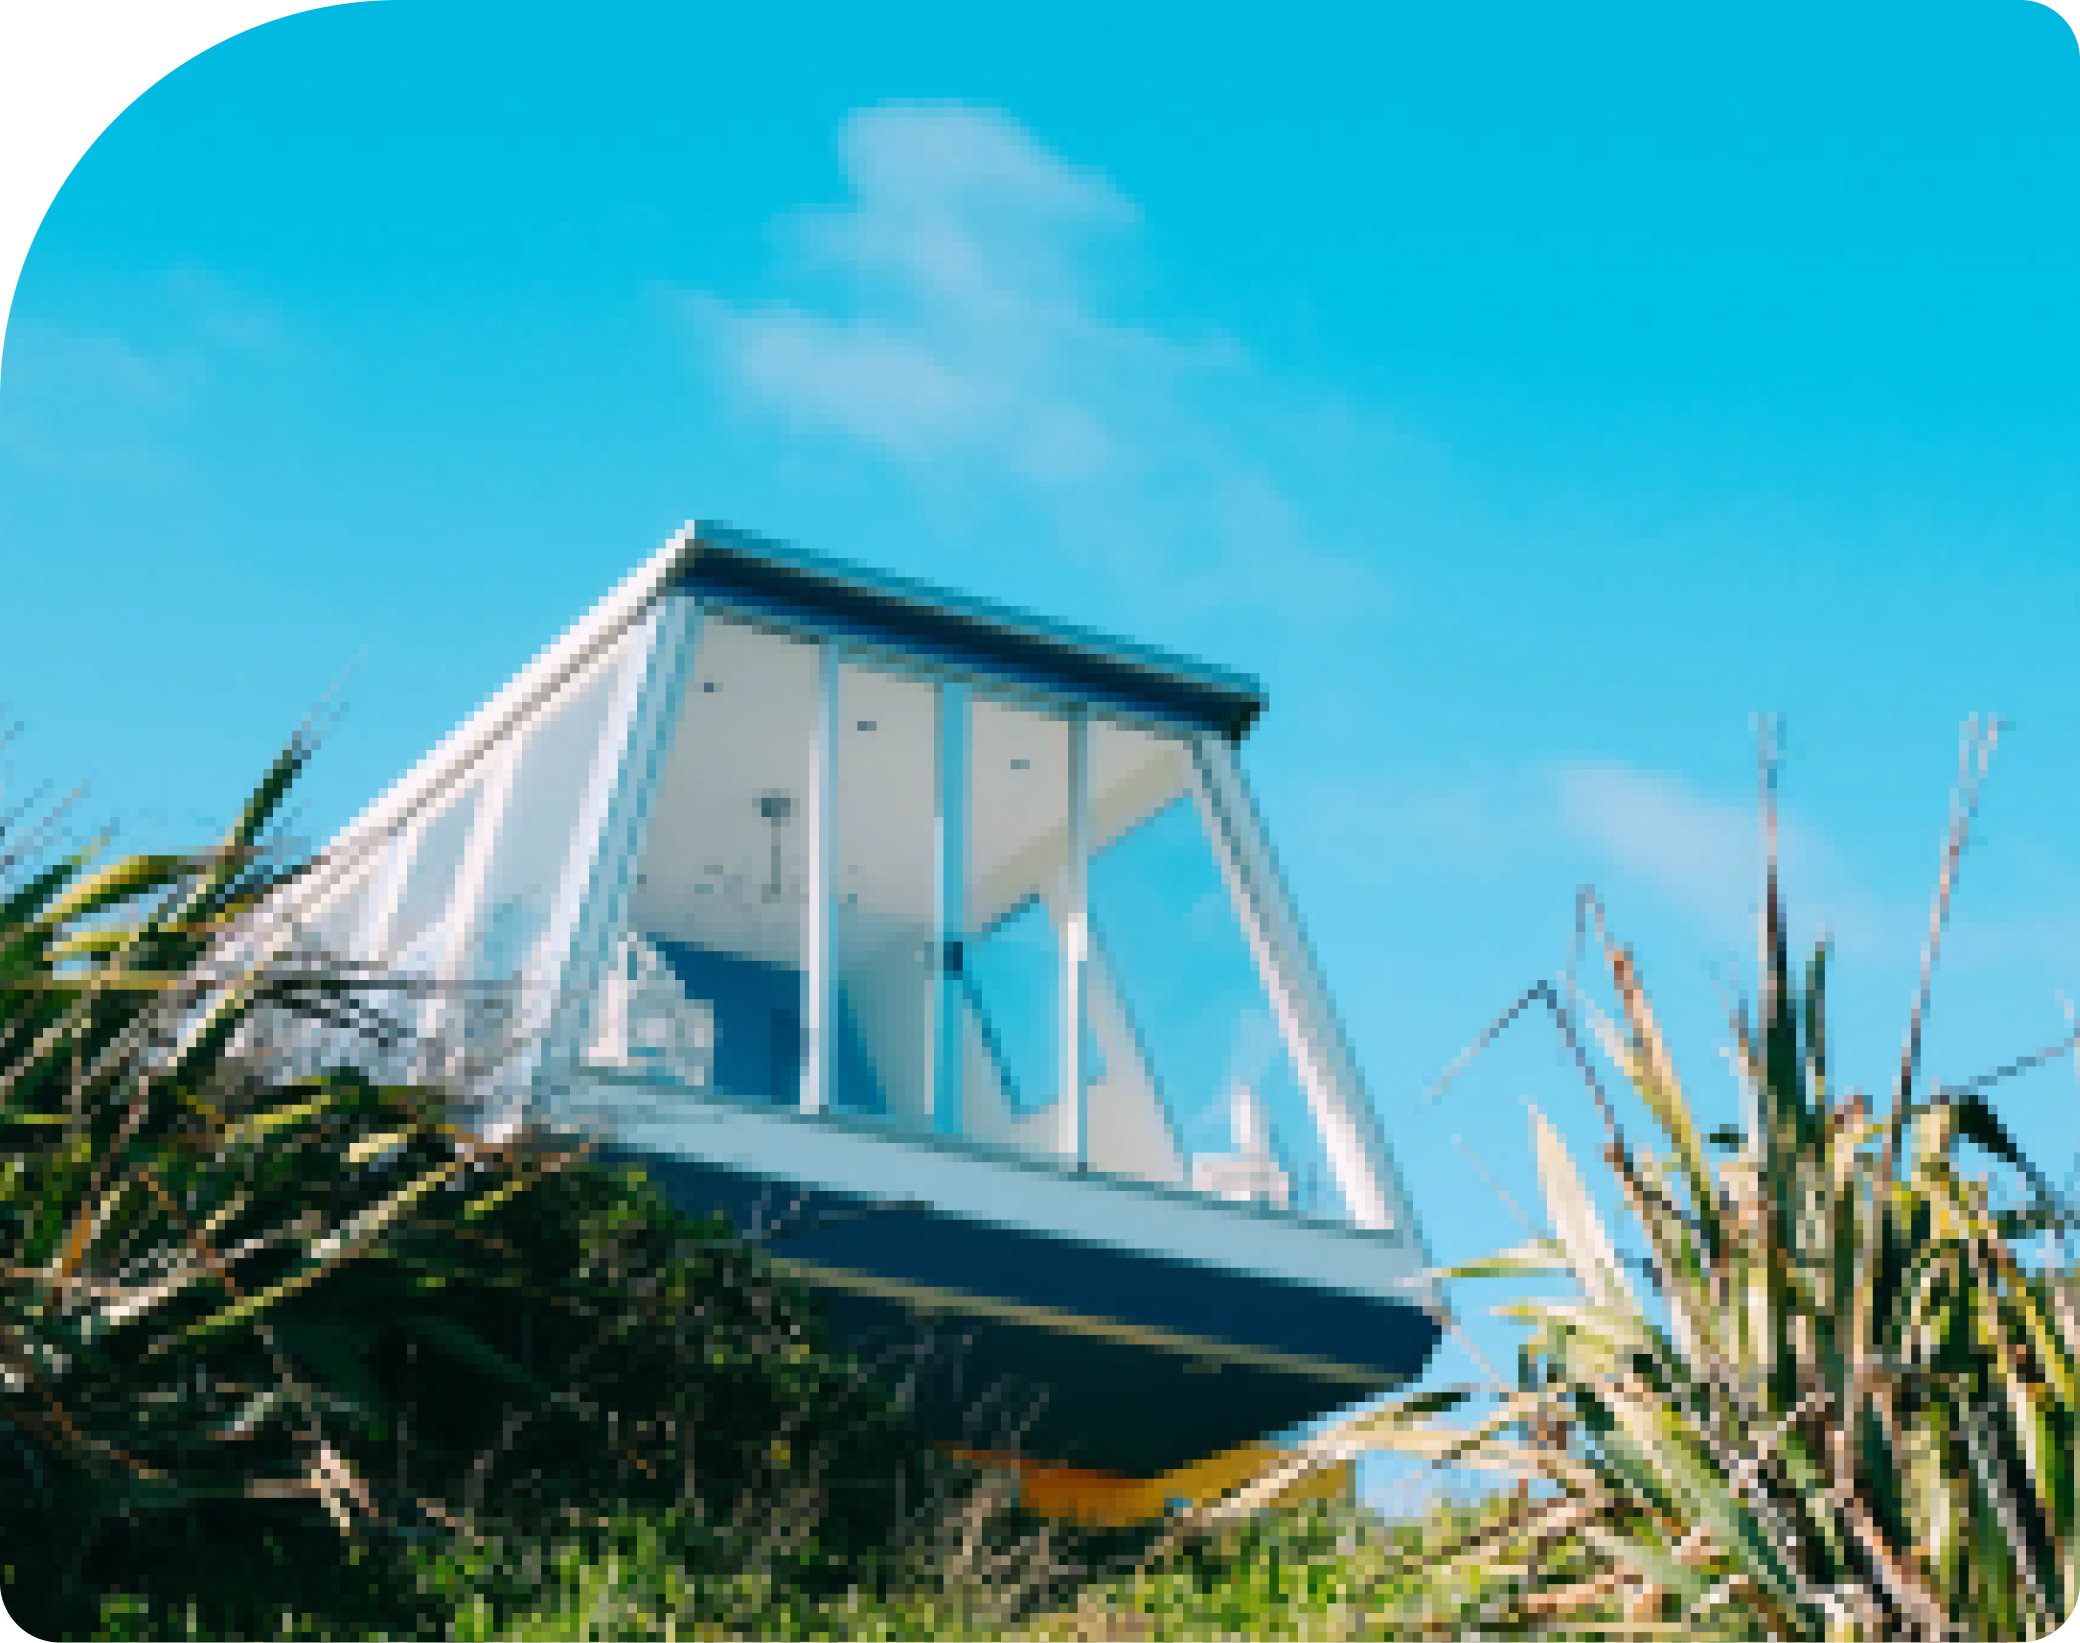
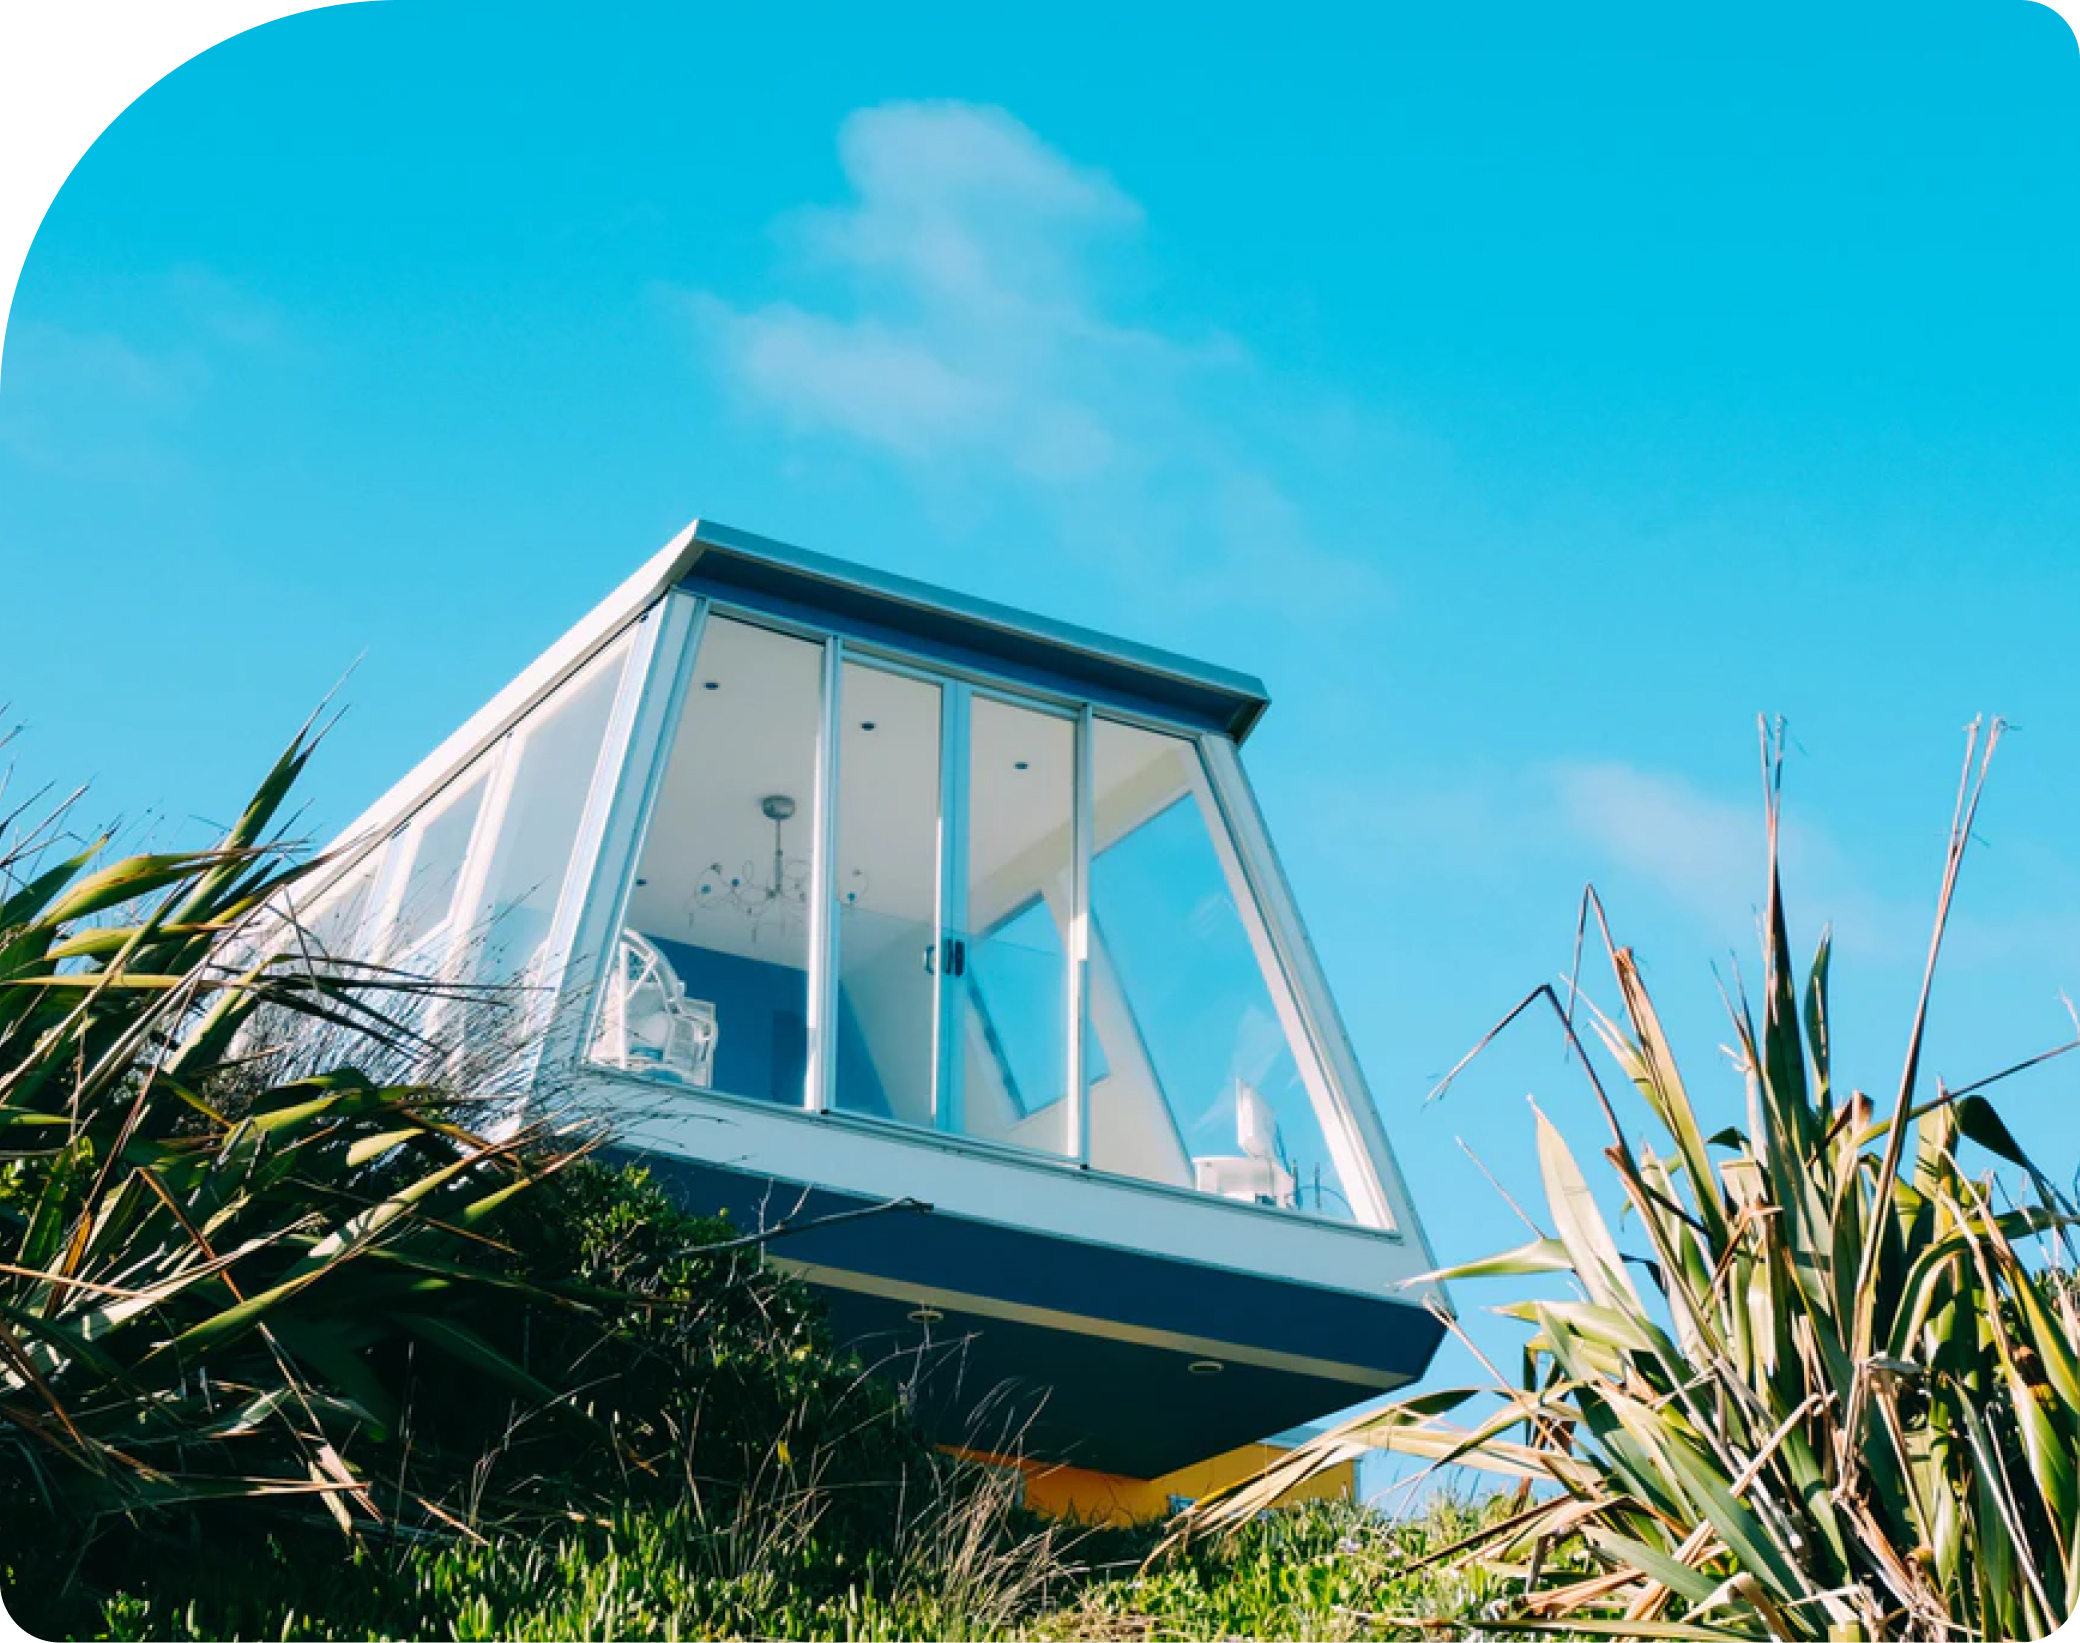
chore: editing hero section

diff --git a/src/parts/Hero.js b/src/parts/Hero.js
@@ -18,11 +18,12 @@ export default function Hero(props) {
   return (
     <section className="container pt-4">
       <div className="row align-items-center">
-        <div className="col-auto pr-5" style={{ width: 452 }}>
-          <h1 className="h2 font-weight-bold line-height-1 mb-3">
+        <div className="col-auto pr-5" style={{ width: 530 }}>
+          <h1 className="font-weight-bold line-height-1 mb-3">
             Start your vacation,
             <br />
-            hide from the noise of work
+            hide from the noise <br />
+            of work
           </h1>
           <p className="mb-5 font-weight-light text-gray-500 w-75">
             We guarantee the peace of your vacation by providing accommodation
@@ -39,7 +40,7 @@ export default function Hero(props) {
           </Button>
 
           <div className="row mt-5">
-            <div className="col-auto">
+            <div className="col-auto" style={{ marginRight: 35 }}>
               <img
                 width="36"
                 height="36"
@@ -54,7 +55,7 @@ export default function Hero(props) {
               </h6>
             </div>
 
-            <div className="col-auto">
+            <div className="col-auto" style={{ marginRight: 35 }}>
               <img
                 width="36"
                 height="36"
@@ -80,6 +81,23 @@ export default function Hero(props) {
                 <span className="text-gray-500 font-weight-light">Cities</span>
               </h6>
             </div>
+          </div>
+        </div>
+
+        <div className="col-6 pl-5">
+          <div style={{ width: 520, height: 410 }}>
+            <img
+              src={ImageHero}
+              alt=""
+              className="img-fluid position-absolute"
+              style={{ margin: "-30px 0 0 -30px", zIndex: 1 }}
+            />
+            <img
+              src={ImageHero_}
+              alt=""
+              className="img-fluid position-absolute"
+              style={{ margin: "0 -15px -15px 0" }}
+            />
           </div>
         </div>
       </div>

diff --git a/src/assets/scss/_variables.scss b/src/assets/scss/_variables.scss
@@ -263,7 +263,7 @@ $font-weight-bolder: bolder !default;
 $font-weight-base: $font-weight-normal !default;
 $line-height-base: 1.5 !default;
 
-$h1-font-size: $font-size-base * 2.625 !default;
+$h1-font-size: $font-size-base * 2.5 !default;
 $h2-font-size: $font-size-base * 2 !default;
 $h3-font-size: $font-size-base * 1.75 !default;
 $h4-font-size: $font-size-base * 1.5 !default;
